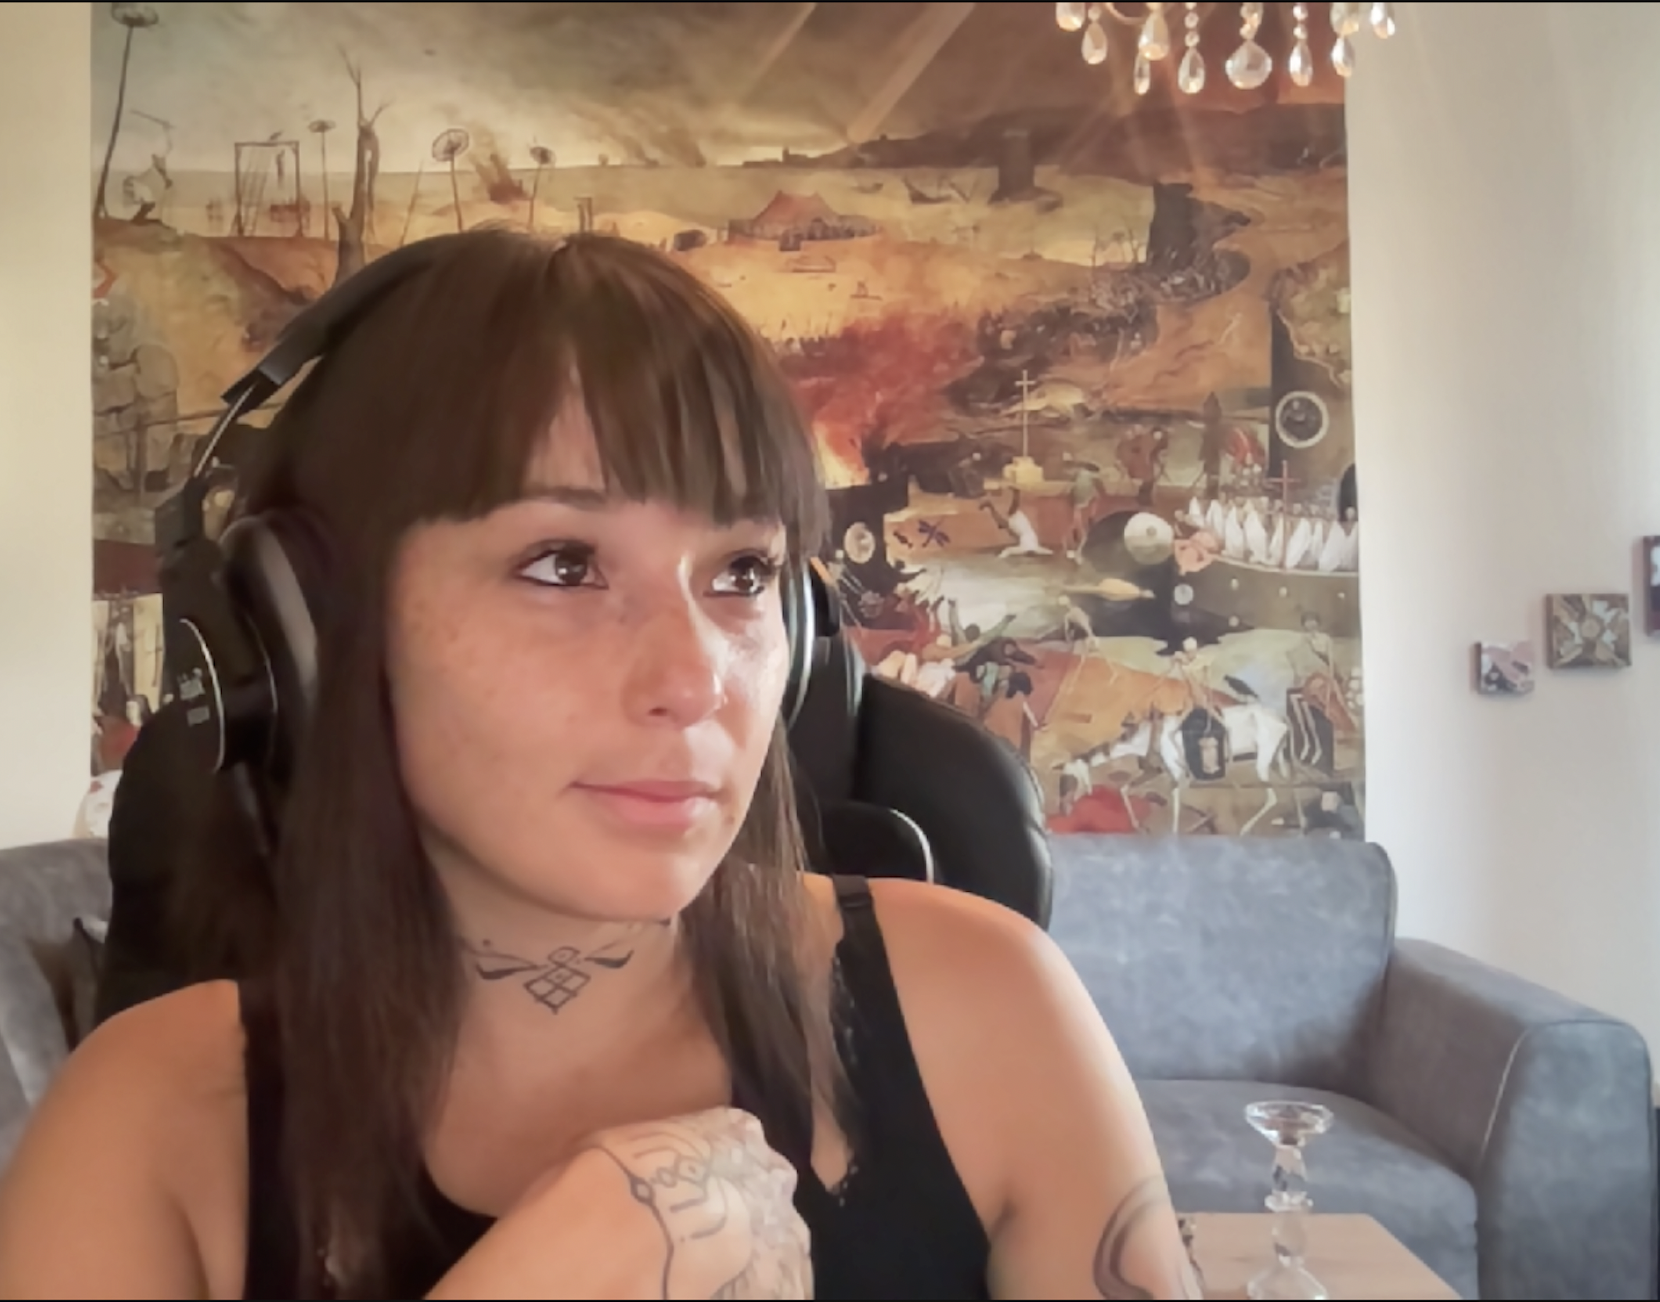
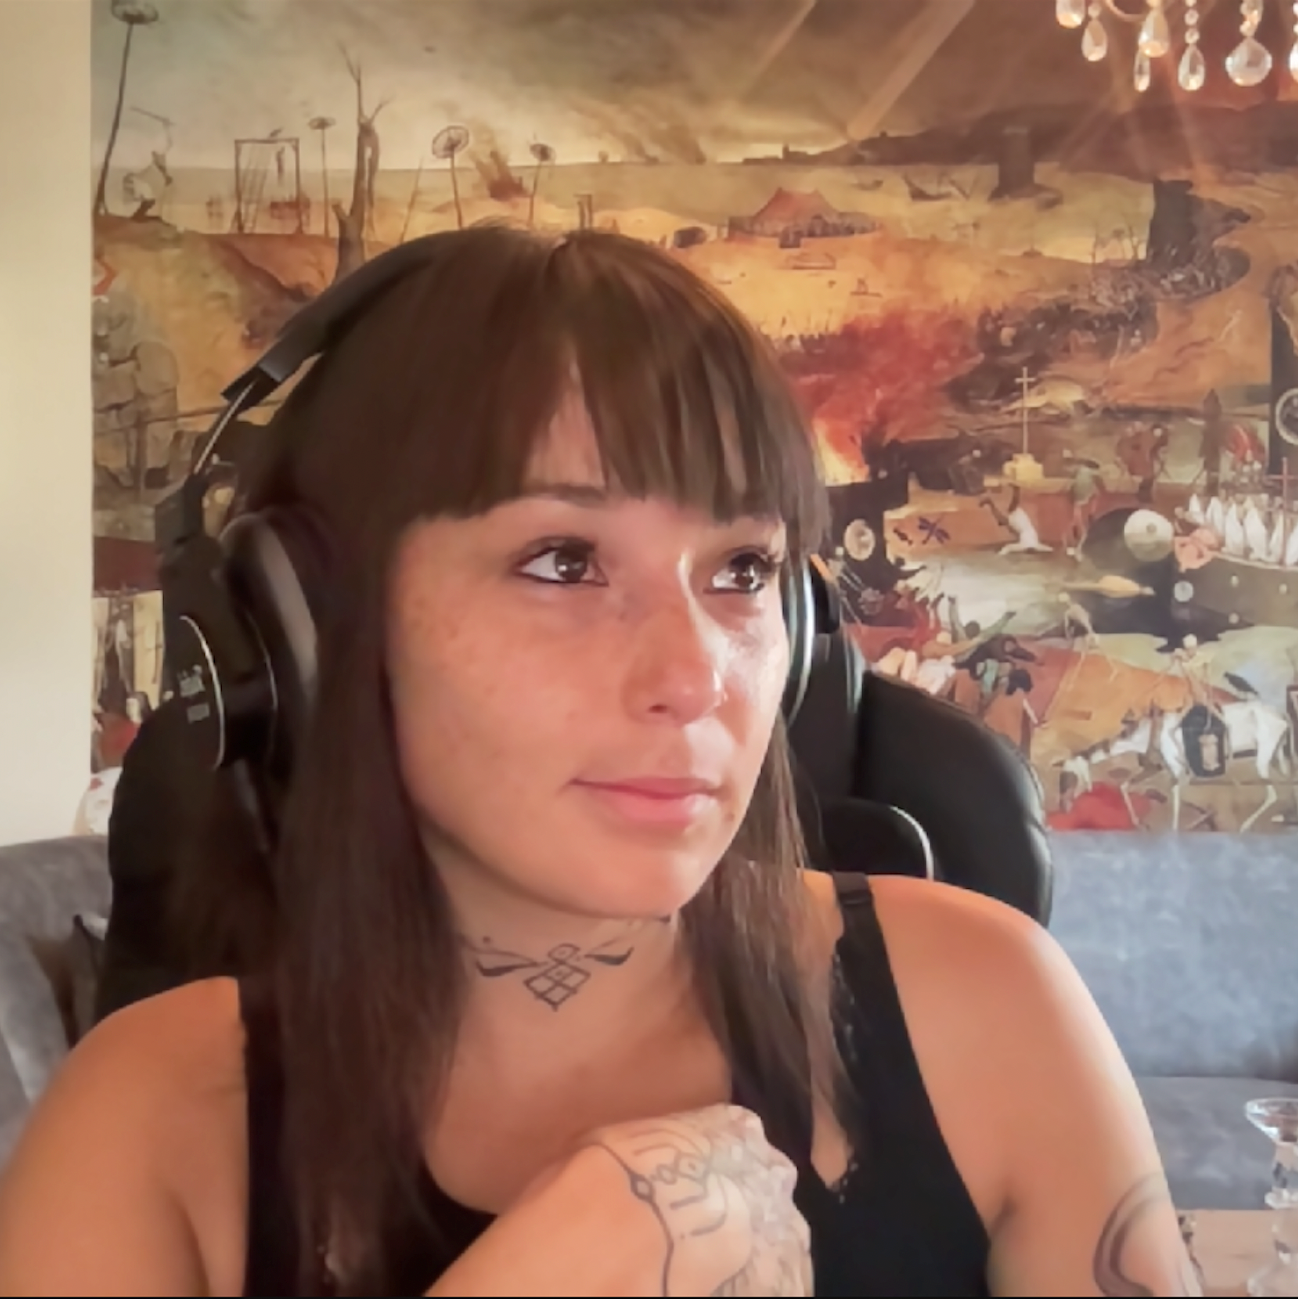
removed important dates section and changed cropped Karina´s picture

diff --git a/index.html b/index.html
@@ -82,6 +82,7 @@
 
 					<hr>
 
+					<!--
 					<header class="style1">
 						<h2>Important dates</h2>
 						<br>
@@ -94,6 +95,7 @@
 						<h1>Registrations close: July 7, 2024</h1>
 						<h1>Tutorial day: July 22, 2024</h1>
 						<h1>Conference days: July 23-26, 2024</h1>
+						-->
 						<!-- <center>
 							<ul class="actions special">
 								<li><a href="submit_paper.html" class="button style1 large">Submit Paper</a></li>
@@ -101,7 +103,9 @@
 								<li><a href="submit_tutorial.html" class="button style2 large">Submit Tutorial</a></li>
 							</ul>
 						</center> -->
+					<!--
 					</header>
+					-->
 
 
 
